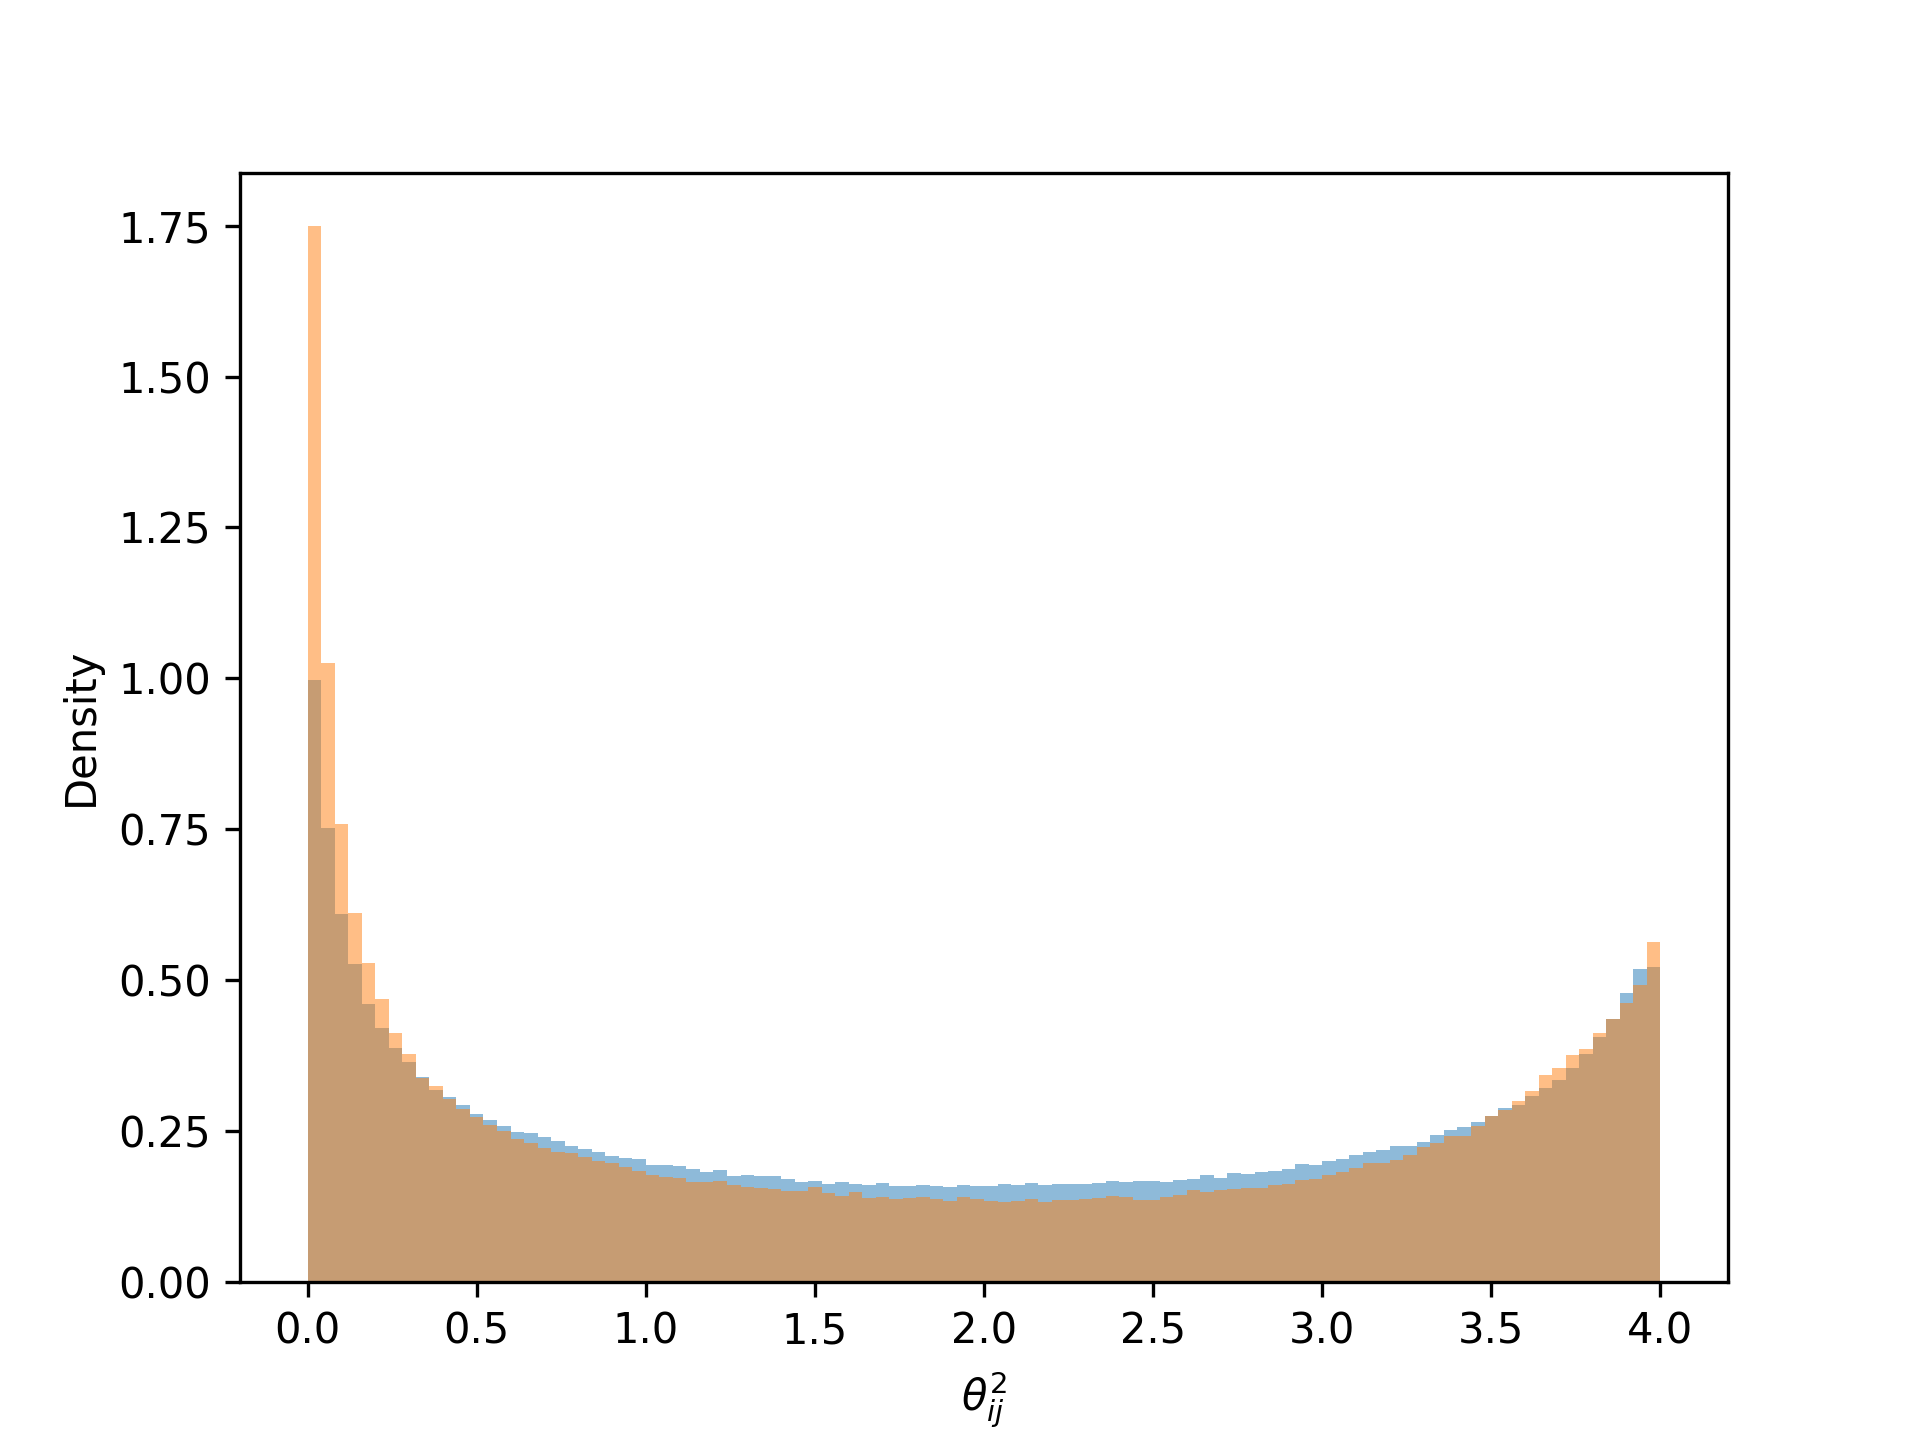
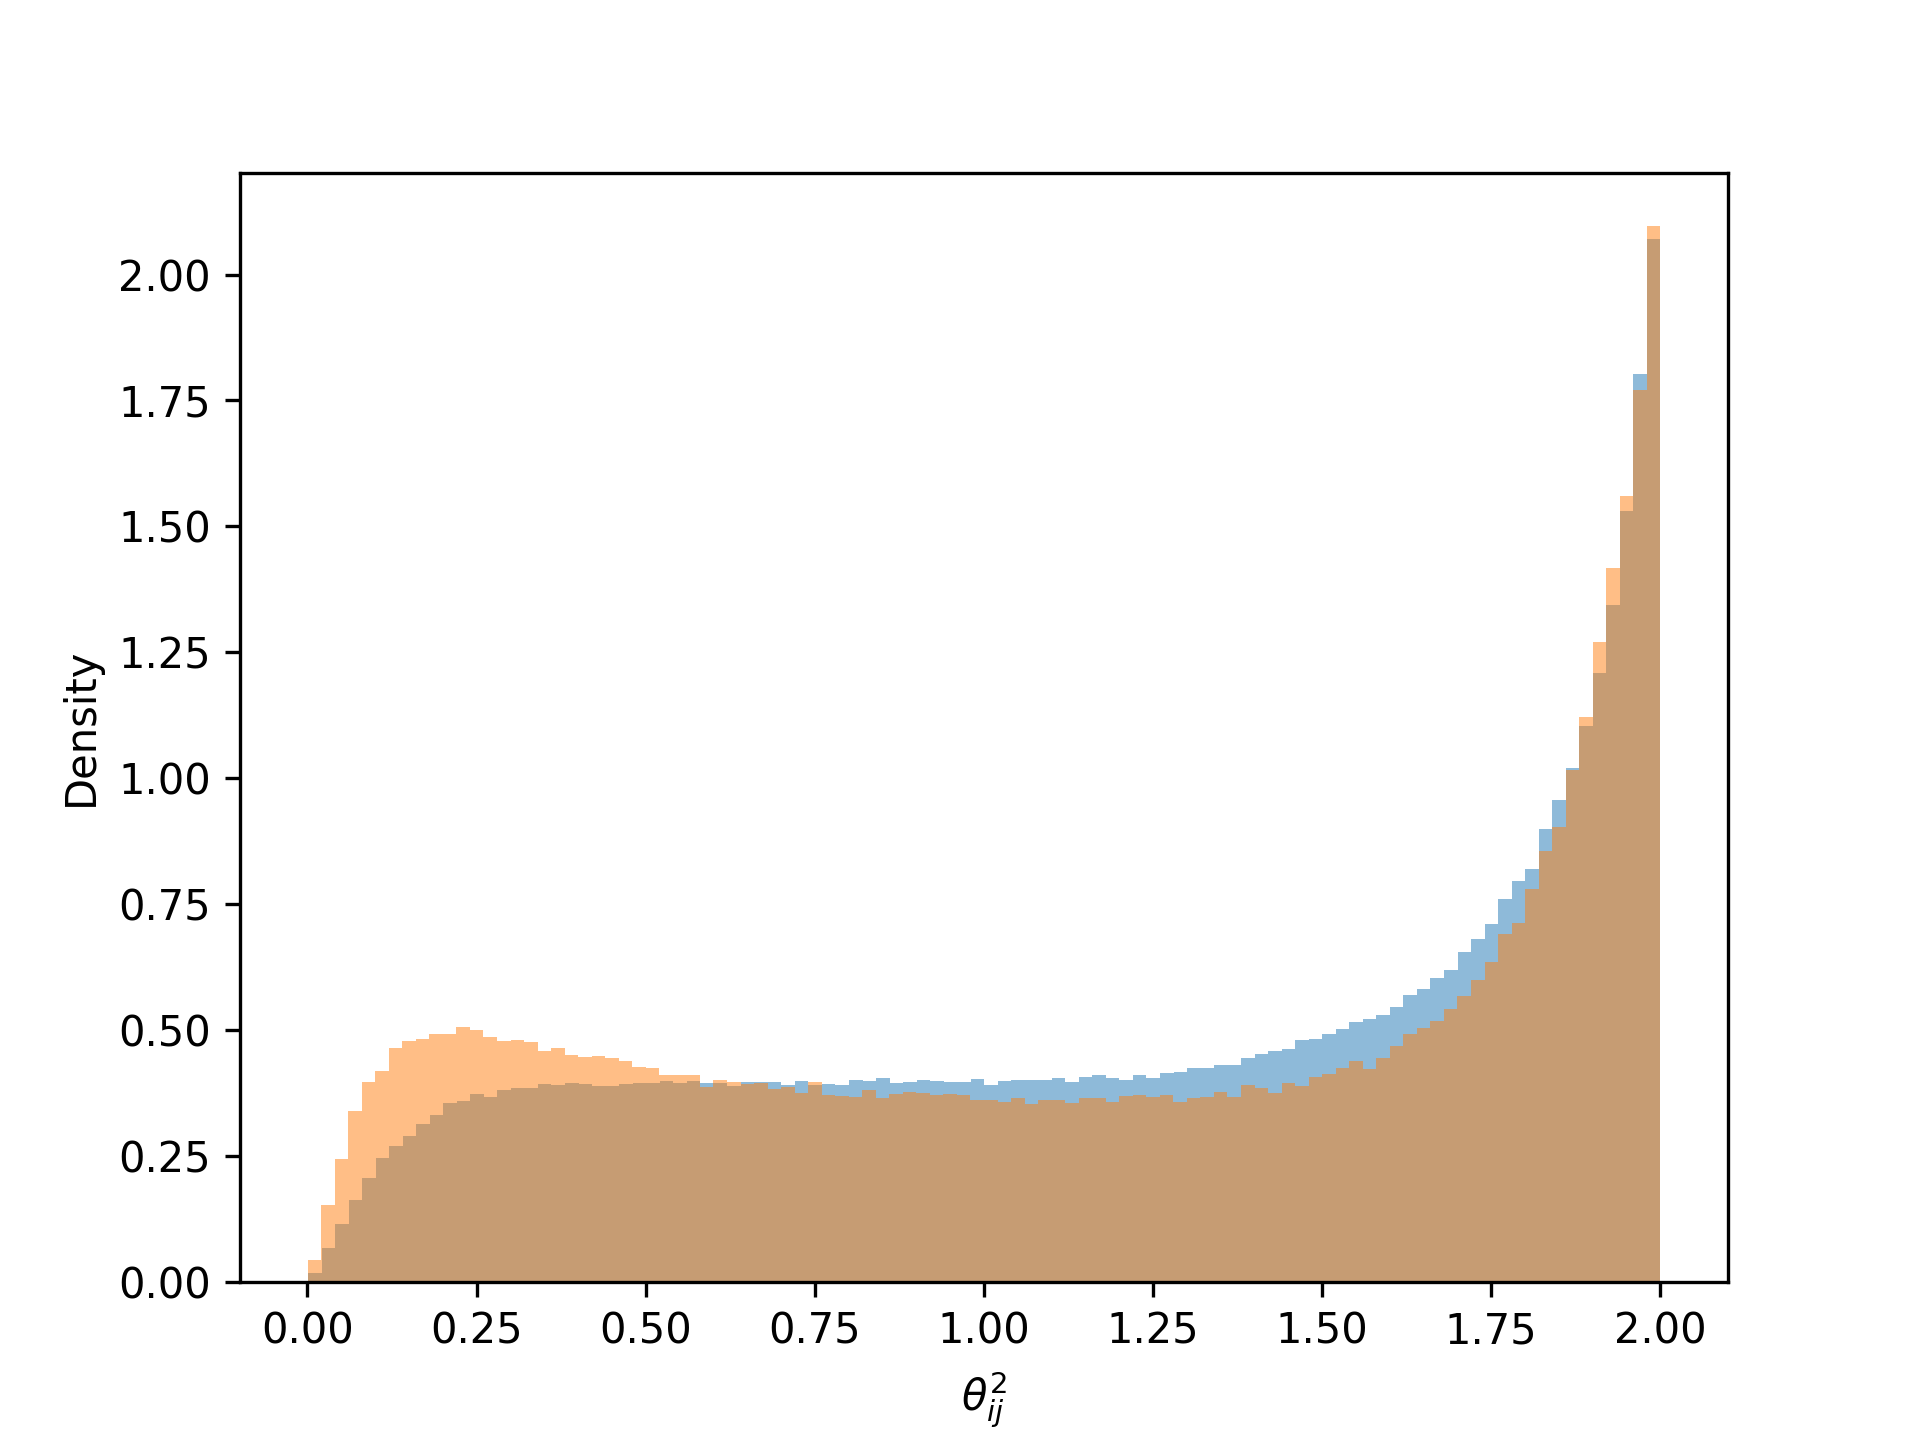
Add 2-point and 3-point ECF jet substructure observables

diff --git a/scripts/hl_observables/3_point_ECF.py b/scripts/hl_observables/3_point_ECF.py
@@ -1,0 +1,81 @@
+import matplotlib.pyplot as plt
+import awkward as ak
+import numpy as np
+
+sig = ak.from_parquet("cache/signal_jetParticles.parquet")
+bkg = ak.from_parquet("cache/background_jetParticles.parquet")
+
+print(sig.fields)
+
+
+def theta_between(px1, py1, pz1, E1, px2, py2, pz2, E2):
+    dot = E1 * E2 - px1 * px2 - py1 * py2 - pz1 * pz2
+    value = 2 * dot / (E1 * E2)
+    return np.sqrt(np.maximum(0, value))
+
+def ecf3_jet(px, py, pz, E, beta=0.2):
+    z = E / ak.sum(E)
+
+    triples = ak.combinations(
+            ak.zip({"z": z, "px": px, "py": py, "pz": pz, "E": E}),
+            3,
+            axis=0,
+            fields=["a", "b", "c"]
+    )
+
+    a = triples["a"]
+    b = triples["b"]
+    c = triples["c"]
+
+    theta_ab = theta_between(a.px, a.py, a.pz, a.E, b.px, b.py, b.pz, b.E)
+    theta_ac = theta_between(a.px, a.py, a.pz, a.E, c.px, c.py, c.pz, c.E)
+    theta_bc = theta_between(b.px, b.py, b.pz, b.E, c.px, c.py, c.pz, c.E)
+
+    return ak.sum(
+            a.z * b.z * c.z *
+            theta_ab**beta *
+            theta_ac**beta *
+            theta_bc**beta)
+
+def ecf3_all_jets(data, beta=1):
+    begin = data["Jet/Jet.particles_begin"]
+    end = data["Jet/Jet.particles_end"]
+
+    px = data["ReconstructedParticles/ReconstructedParticles.momentum.x"]
+    py = data["ReconstructedParticles/ReconstructedParticles.momentum.y"]
+    pz = data["ReconstructedParticles/ReconstructedParticles.momentum.z"]
+    E  = data["ReconstructedParticles/ReconstructedParticles.energy"]
+
+    all_e3 = []
+
+    for event in range(len(E)):
+        event_e3 = []
+
+        for jet in range(len(begin[event])):
+            b = begin[event][jet]
+            e = end[event][jet]
+
+            value = ecf3_jet(px[event][b:e],py[event][b:e],pz[event][b:e],E[event][b:e],beta=beta)
+
+            event_e3.append(value)
+
+        all_e3.append(event_e3)
+
+    return ak.Array(all_e3)
+
+sig_e3 = ecf3_all_jets(sig[:1000], beta=0.5)
+bkg_e3 = ecf3_all_jets(bkg[:1000], beta=0.5)
+
+ak.to_parquet(ak.Array({"e3_beta_0.5": sig_e3}),"cache/signal_e3_beta_05_1000.parquet", compression=None)
+
+ak.to_parquet(ak.Array({"e3_beta_0.5": bkg_e3}),"cache/bkg_e3_beta_05_1000.parquet", compression=None)
+
+sig_flat = ak.to_numpy(ak.flatten(sig_e3, axis=None))
+bkg_flat = ak.to_numpy(ak.flatten(bkg_e3, axis=None))
+
+plt.hist(sig_flat, bins=100, density=True, label="signal", alpha=0.5)
+plt.hist(bkg_flat, bins=100, density=True, label="background", alpha=0.5)
+plt.legend()
+plt.xlabel(r"$e_3^{(\beta=1)}$")
+plt.ylabel("Density")
+plt.savefig("outputs/plots/e3_beta_1_distribution.png")

diff --git a/scripts/hl_observables/ECF_C2Beta_D2Beta.py b/scripts/hl_observables/ECF_C2Beta_D2Beta.py
@@ -1,0 +1,49 @@
+import matplotlib.pyplot as plt
+import awkward as ak
+import numpy as np
+
+sig_e2 = ak.from_parquet("cache/signal_e2_beta_05_1000.parquet")["e2_beta_0.5"]
+bkg_e2 = ak.from_parquet("cache/bkg_e2_beta_05_1000.parquet")["e2_beta_0.5"]
+
+sig_e3 = ak.from_parquet("cache/signal_e3_beta_05_1000.parquet")["e3_beta_0.5"]
+bkg_e3 = ak.from_parquet("cache/bkg_e3_beta_05_1000.parquet")["e3_beta_0.5"]
+
+def energy_correlation_C(e2, e3):
+    mask = e2 > 0
+    return (e3[mask] / e2[mask]**2)
+
+def energy_correlation_D(e2, e3, beta=1):
+    mask = e2 > 0
+    return (e3[mask] / e2[mask]**3)
+
+sig_C = energy_correlation_C(sig_e2, sig_e3)
+bkg_C = energy_correlation_C(bkg_e2, bkg_e3)
+
+sig_C_flat = ak.to_numpy(ak.flatten(sig_C,axis=None))
+bkg_C_flat = ak.to_numpy(ak.flatten(bkg_C,axis=None))
+
+plt.hist(sig_C_flat, density=True, label='signal', alpha=0.5, bins=100)
+plt.hist(bkg_C_flat, density=True, label='background', alpha=0.5, bins=100)
+
+plt.legend()
+plt.title(r"Energy correlation function $C_2$ (beta=0.5)")
+plt.ylabel("Density")
+
+plt.savefig("outputs/plots/hl_observables/energy_correlation_C2Beta05.png")
+plt.close()
+
+sig_D = energy_correlation_D(sig_e2, sig_e3)
+bkg_D = energy_correlation_D(bkg_e2, bkg_e3)
+
+sig_D_flat = ak.to_numpy(ak.flatten(sig_D,axis=None))
+bkg_D_flat = ak.to_numpy(ak.flatten(bkg_D,axis=None))
+
+plt.hist(sig_D_flat, density=True, label='signal', alpha=0.5, bins=100)
+plt.hist(bkg_D_flat, density=True, label='background', alpha=0.5, bins=100)
+
+plt.legend()
+plt.title(r"Energy correlation function $D_2$ (beta=0.5)")
+plt.ylabel("Density")
+
+plt.savefig("outputs/plots/hl_observables/energy_correlation_D2Beta05.png")
+plt.close()

diff --git a/scripts/hl_observables/2_point_ECF.py b/scripts/hl_observables/2_point_ECF.py
@@ -1,0 +1,39 @@
+import matplotlib.pyplot as plt
+import awkward as ak
+import numpy as np
+
+sig_z = ak.from_parquet("cache/signal_energy_fraction_z_10000.parquet")['energy_fraction_z']
+bkg_z = ak.from_parquet("cache/bkg_energy_fraction_z_10000.parquet")['energy_fraction_z']
+ 
+sig_theta = ak.from_parquet("cache/signal_theta2_ij_10000.parquet")['theta2_ij']
+bkg_theta = ak.from_parquet("cache/bkg_theta2_ij_10000.parquet")['theta2_ij']
+
+sig_z = sig_z[:len(sig_theta)]
+bkg_z = bkg_z[:len(bkg_theta)]
+
+def ecf2(z, theta2, beta=1):
+        # all unique constituent pairs: (zi, zj)
+        z_pairs = ak.combinations(z, 2, axis=-1, fields=["zi", "zj"])
+        zi = z_pairs["zi"]
+        zj = z_pairs["zj"]
+
+        assert ak.all(ak.num(zi, axis=-1) == ak.num(theta2, axis=-1))
+
+        return ak.sum(zi * zj * theta2**beta, axis=-1)
+
+sig = ecf2(sig_z, sig_theta, beta = 0.5)
+bkg = ecf2(bkg_z, bkg_theta, beta = 0.5)
+
+sig_flat = ak.to_numpy(ak.flatten(sig, axis=None))
+bkg_flat = ak.to_numpy(ak.flatten(bkg, axis=None))
+
+plt.hist(sig_flat, density=True, label='signal', alpha=0.5, bins=100)
+plt.hist(bkg_flat, density=True, label='background', alpha=0.5, bins=100)
+plt.legend()
+plt.title("Two point energy function (beta = 0.5)")
+plt.ylabel("Density")
+
+plt.savefig("outputs/plots/two_point_energy_distribution_beta05.png")
+
+ak.to_parquet(ak.Array({"e2_beta_0.5": sig}),"cache/signal_e2_beta_05_1000.parquet", compression=None)
+ak.to_parquet(ak.Array({"e2_beta_0.5": bkg}),"cache/bkg_e2_beta_05_1000.parquet", compression=None)

diff --git a/scripts/hl_observables/energyFraction_theta2.py b/scripts/hl_observables/energyFraction_theta2.py
@@ -73,7 +73,7 @@ def find_theta2_ij_jet(px, py, pz, E):
                      -py[i] * py[j]
                     -pz[i] * pz[j]
             )
-            theta2.append(2 * dot / (E[i] * E[j]))
+            theta2.append(np.sqrt(2 * dot / (E[i] * E[j])))
     return ak.Array(theta2)
 
 def find_theta2_all_jet(data):
